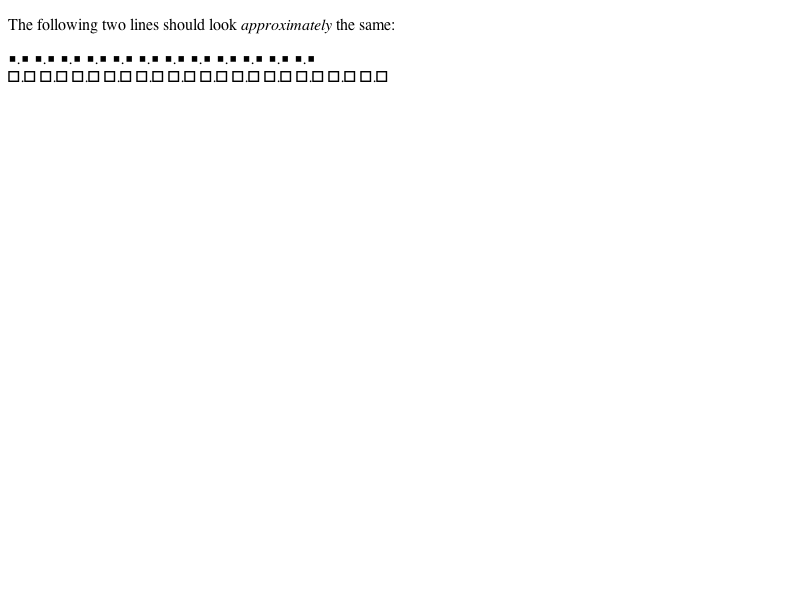
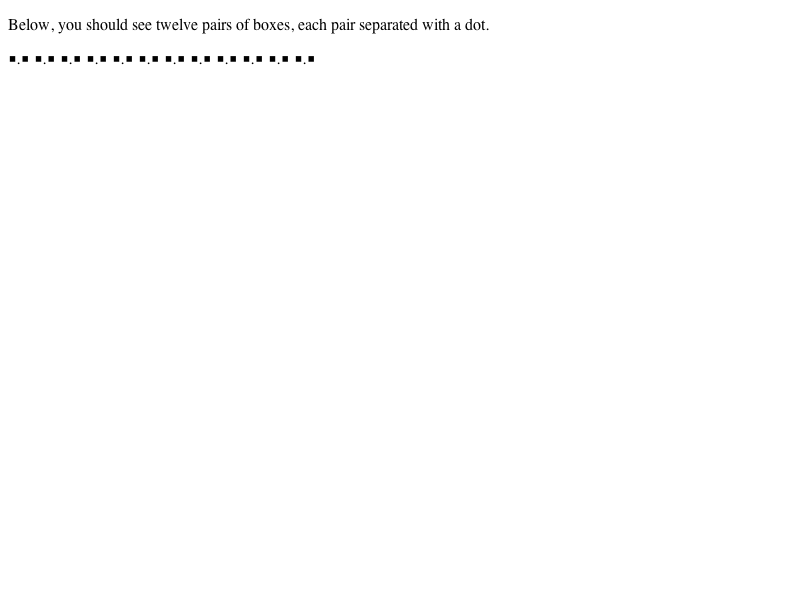
Reviewed by Geoff.
Changing these two counters tests so they pass on the BuildBot.

        * fast/css/counters/counter04-expected.checksum:
        * fast/css/counters/counter04-expected.png:
        * fast/css/counters/counter04-expected.txt:
        * fast/css/counters/counter04.html:
        * fast/css/counters/counters04-expected.checksum:
        * fast/css/counters/counters04-expected.png:
        * fast/css/counters/counters04-expected.txt:
        * fast/css/counters/counters04.html:

Identifier: 14060@main
git-svn-id: https://svn.webkit.org/repository/webkit/trunk@16747 268f45cc-cd09-0410-ab3c-d52691b4dbfc

Changed region(s): [[0.0, 0.03, 0.625, 0.06], [0.0, 0.12, 0.5, 0.15]]

diff --git a/LayoutTests/fast/css/counters/counters04.html b/LayoutTests/fast/css/counters/counters04.html
@@ -15,7 +15,7 @@
  </head>
  <body>
 
- <p>The following two lines should look <em>approximately</em> the same:</p>
+ <p>Below, you should see twelve pairs of boxes, each pair separated with a dot.</p>
 
  <div id="test">
    <span></span>
@@ -30,21 +30,6 @@
    <span></span>
    <span></span>
    <span></span>
- </div>
-
- <div>
-   &#x25FE;.&#x25FE;
-   &#x25FE;.&#x25FE;
-   &#x25FE;.&#x25FE;
-   &#x25FE;.&#x25FE;
-   &#x25FE;.&#x25FE;
-   &#x25FE;.&#x25FE;
-   &#x25FE;.&#x25FE;
-   &#x25FE;.&#x25FE;
-   &#x25FE;.&#x25FE;
-   &#x25FE;.&#x25FE;
-   &#x25FE;.&#x25FE;
-   &#x25FE;.&#x25FE;
  </div>
 
  </body>

diff --git a/LayoutTests/fast/css/counters/counter04.html b/LayoutTests/fast/css/counters/counter04.html
@@ -15,7 +15,7 @@
  </head>
  <body>
 
- <p>The following two lines should look <em>approximately</em> the same:</p>
+ <p>Below, you should see twelve boxes on one line.</p>
 
  <div id="test">
    <span></span>
@@ -30,21 +30,6 @@
    <span></span>
    <span></span>
    <span></span>
- </div>
-
- <div>
-   &#x25FE;
-   &#x25FE;
-   &#x25FE;
-   &#x25FE;
-   &#x25FE;
-   &#x25FE;
-   &#x25FE;
-   &#x25FE;
-   &#x25FE;
-   &#x25FE;
-   &#x25FE;
-   &#x25FE;
  </div>
 
  </body>
